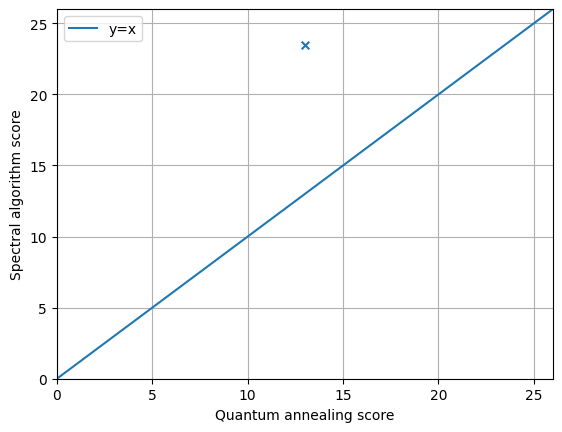
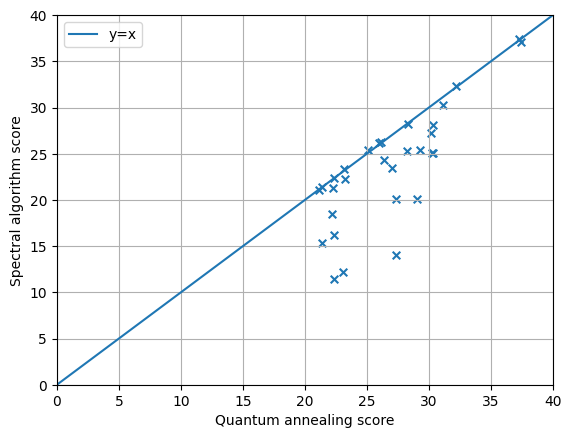
Alix's done with generating the scatter plot (however histograms no)

diff --git a/bipartite_hist_scatter.py b/bipartite_hist_scatter.py
@@ -19,11 +19,11 @@ from matplotlib import pyplot, patches
 import numpy as np
 from signet.cluster import Cluster
 from scipy.sparse import csc_matrix
-from spectral_alg import spectual
+from spectral_alg import spectual, cost
 
 
 ## Run the approximate bipartipe graph and the greedy algorithm a hundred times and save the results 
-M = 1 #number of run 
+M = 30 #number of run 
 nsize = 10 #size of the graph
 
 #create vector to save the results in
@@ -35,10 +35,15 @@ for i in range(0,M):
     ## Classical algorithm - spectral
     #G = compexact_bipartipe_graph(10)
     G = stochastic_block_model(nsize,a=0.1,b=0.5,c=0.1,d=0.1)
-    _,_,Sg = spectual(G)
-    spectral_score = np.append(spectral_score,-Sg)
-    print("Spectral algorithm")
-    print(-Sg)
+    Sg,S0,S1 = spectual(G)
+    # print("Spectral algorithm")
+    # print(Sg)
+    # print("set 1 ")
+    # print(S0)
+    # print("set 2")
+    # print(S1)
+    spectral_score = np.append(spectral_score,-1*Sg)
+
     ## Quantum Annealing
     ## ------- Set up our QUBO dictionary -------
     Q = defaultdict(int)
@@ -51,21 +56,25 @@ for i in range(0,M):
     # Set up QPU parameters
     chainstrength = 8
     numruns = 10
-    # # Run the QUBO on the solver from your config file
+    # Run the QUBO on the solver from your config file
     sampler = EmbeddingComposite(DWaveSampler())
     response = sampler.sample_qubo(Q,
                                 chain_strength=chainstrength,
                                 num_reads=numruns,
                                 label='Example - Bipartite structure')
 
-    en_quant_list = []
+    # save the results 
+    en_quant_list=[]
     for sample, E in response.data(fields=['sample','energy']):
-        en_quant_list.append(E)
-    print("engergy list ")
-    print(en_quant_list)
-    max_en = -1*(min(en_quant_list) + int(G.number_of_edges()))
-    print("Maximum energy")
-    print(max_en)
+        S0 = [k for k,v in sample.items() if v == 0]
+        S1 = [k for k,v in sample.items() if v == 1]
+        Enew = cost(G, S0, S1)
+        en_quant_list.append(Enew)
+    # print("engergy list ")
+    # print(en_quant_list)
+    max_en = -1*(min(en_quant_list))
+    # print("Maximum energy")
+    # print(max_en)
     quantum_score = np.append(quantum_score,max_en)
 
     ## Compute the difference

diff --git a/directed_bipartite.py b/directed_bipartite.py
@@ -40,8 +40,9 @@ from spectral_alg import spectual, cost
 
 ## ------- Create the graph -------
 #np.random.seed(123)
-G = stochastic_block_model(10)
-#G = compexact_bipartipe_graph(10)
+#G = stochastic_block_model(10)
+G = compexact_bipartipe_graph(10)
+
 ## ********************* TRADITIONAL APPROACH *********************
 ## ------- Resolve using Spectral algorithm -------
 print("Spectral Algorithm")
@@ -83,14 +84,7 @@ print('-' * 60)
 for sample, E in response.data(fields=['sample','energy']):
     S0 = [k for k,v in sample.items() if v == 0]
     S1 = [k for k,v in sample.items() if v == 1]
-    #Enew = int(E) + G.number_of_edges() 
-    #Enew = int(E) + count_nodes(S0,S1,G) 
     Enew = cost(G, S0, S1)
-    # when you use stochastic bloc
-    # you get the issue but not with exact compact graph 
-    # I am sure why
-    # count_nodes(set1,set2,G) is  a new function in synthetic_data that counts the number 
-    # of nodes going from 1 to 2. 
     print('{:>15s}{:>15s}{:^15s}{:^15s}'.format(str(S0),str(S1),str(Enew),str(int(-1*Enew))))
 
 

diff --git a/greedy_algAlix.py b/greedy_algAlix.py
@@ -21,8 +21,15 @@ def max_cut(G,S0_try1,S1_try1):
    
 # ------- Set up the greedy algorithm to find the maximum cut -------
 def greedy_algorithm(G):
-    S0 = []
-    S1 = []
+    '''
+    The function takes as an argument: 
+    - G: a graphx value representing a graph
+    The function returns: 
+    - the two sets with allocations of nodes
+    - the energy function value resulting from the allocation
+    '''
+    S0 = [] #empty set 1
+    S1 = [] #empty set 2
     
     # Allocate the first vertex to any of the two groups randomly
     rand=np.random.normal(1)
